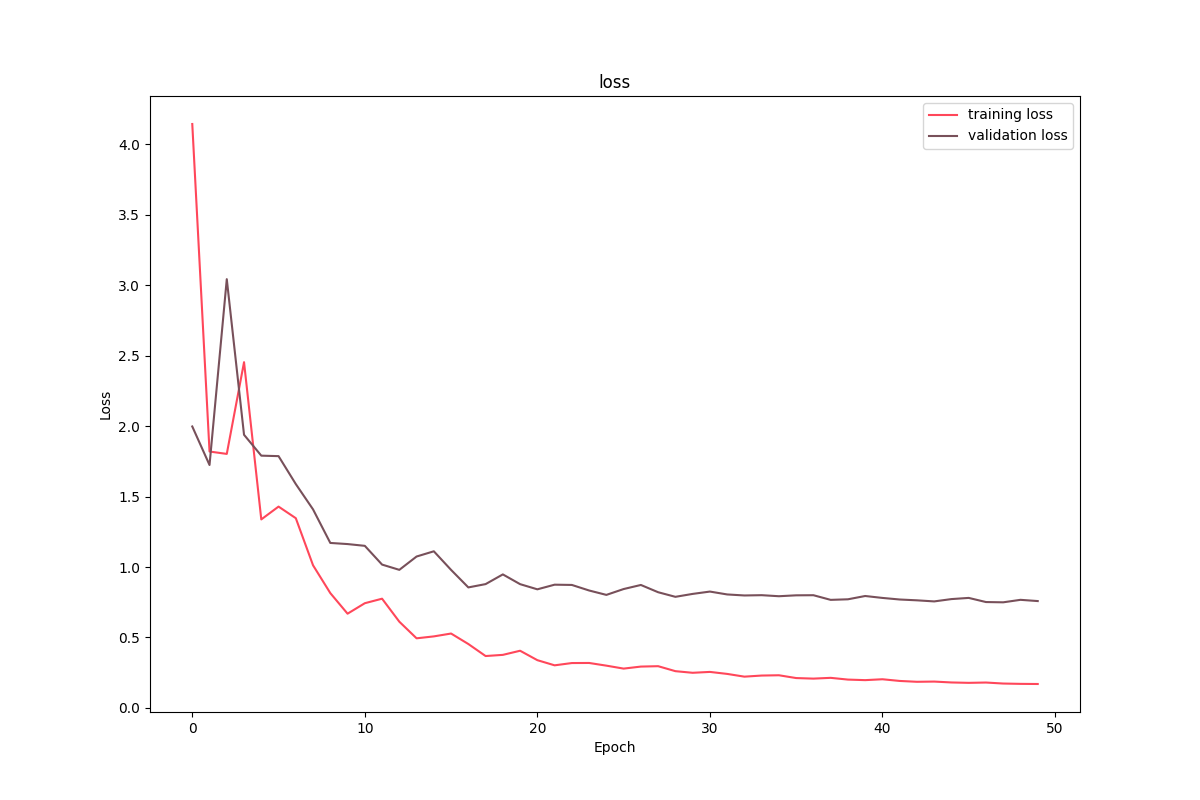
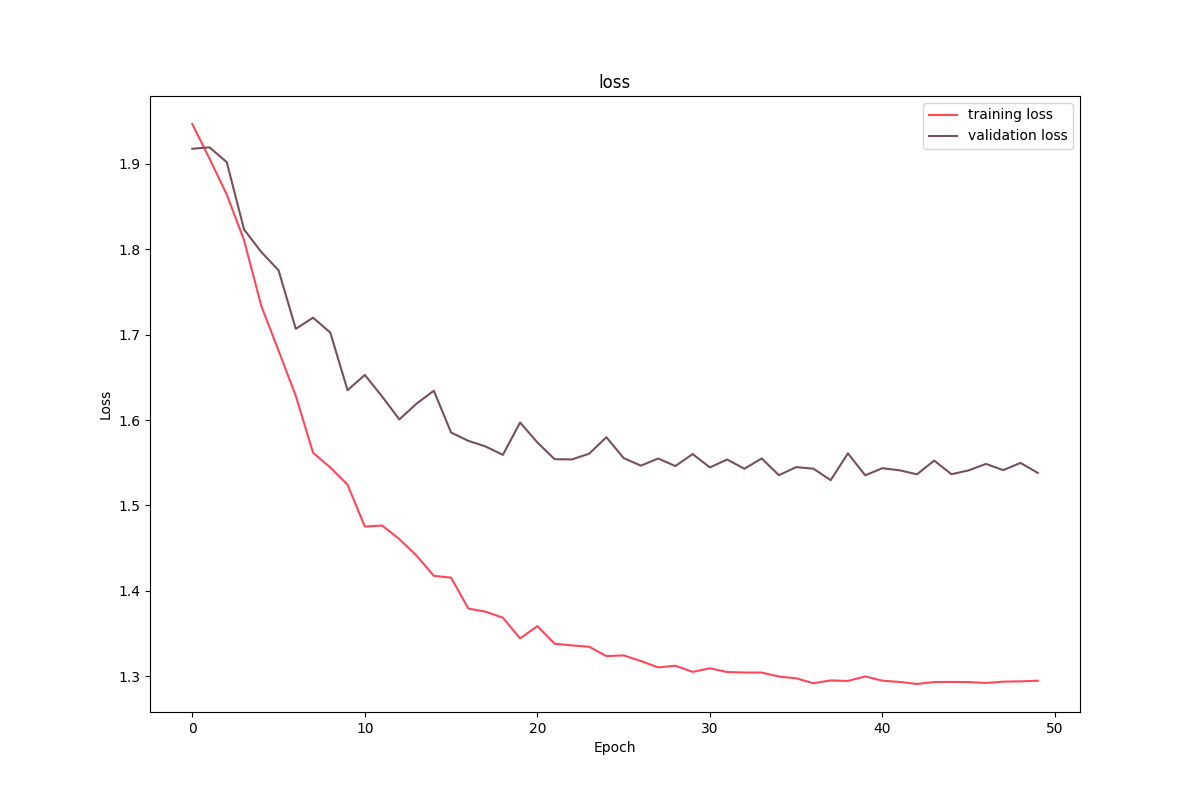
fix bugs

diff --git a/NodeClassification/src/model.py b/NodeClassification/src/model.py
@@ -2,7 +2,6 @@ import torch
 import torch.nn as nn
 import torch.nn.functional as F
 import torch.nn.init as init
-from torchsummary import summary
 
 
 class GraphConvolution(nn.Module):
@@ -48,13 +47,12 @@ class GCN(nn.Module):
         :param input_dim: 输入维度
         """
         super(GCN, self).__init__()
-        self.gcn1 = GraphConvolution(input_dim, 256)
-        self.gcn2 = GraphConvolution(256, 64)
-        self.gcn3 = GraphConvolution(64, 7)
+        self.gcn1 = GraphConvolution(input_dim, 128)
+        self.gcn2 = GraphConvolution(128, 7)
 
     def forward(self, adjacency, feature):
         h = F.relu(self.gcn1(adjacency, feature))
-        logits = self.gcn2(adjacency, h)
+        logits = F.softmax(self.gcn2(adjacency, h), dim=-1)
         return logits
 
 
